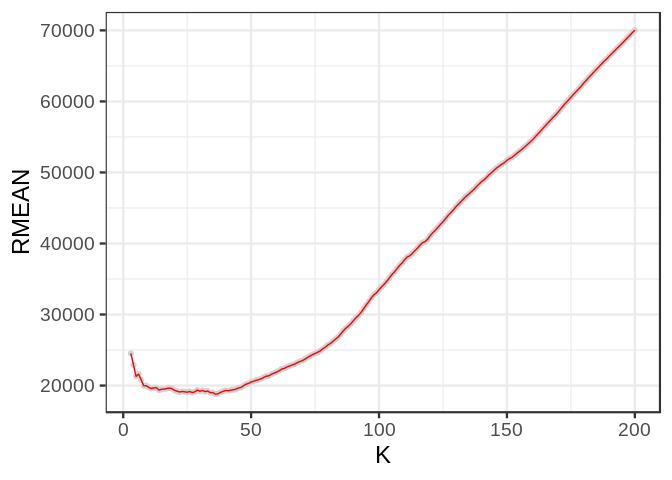
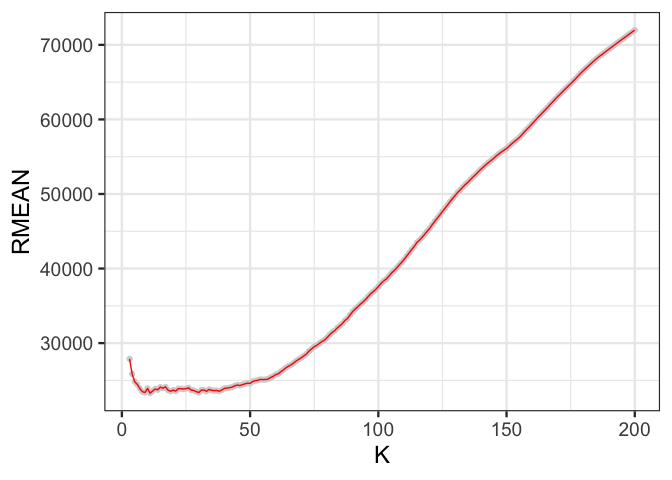
code chunk stuff

Changed region(s): [[0.0625, 0.0312, 1.0, 0.9688], [0.0, 0.5, 0.0312, 0.5312], [0.0, 0.375, 0.0312, 0.4062]]

diff --git a/Exercise_2.md b/Exercise_2.md
@@ -21,53 +21,36 @@ values of K for predicting the price of each.
 
 ![](Exercise_2_files/figure-gfm/sclass_350-1.png)<!-- -->
 
-    ## [1] 11262.72
+    ## [1] 11847.07
 
 ![](Exercise_2_files/figure-gfm/sclass_350-2.png)<!-- -->
 
-    ## [1] 9740.887
+    ## [1] 11063.13
 
 ![](Exercise_2_files/figure-gfm/sclass_350-3.png)<!-- -->
 
-    ## [1] 9569.883
+    ## [1] 10708.52
 
 ![](Exercise_2_files/figure-gfm/sclass_350-4.png)<!-- -->
 
-    ## [1] 9808.211
+    ## [1] 10784.93
 
 ![](Exercise_2_files/figure-gfm/sclass_350-5.png)<!-- -->
 
-    ## [1] 10166.67
+    ## [1] 11158.3
 
 ![](Exercise_2_files/figure-gfm/sclass_350-6.png)<!-- -->
 
-    ## [1] 11344.34
+    ## [1] 12366.65
 
 ![](Exercise_2_files/figure-gfm/sclass_350-7.png)<!-- -->
 
-    ## [1] 17985.58
+    ## [1] 17835.59
 
 Here we plot the average RMSE for each value of K from 3 to 250, and
 find that the optimal value of K is
 
-``` kplot
-kframe <- data.frame("K" = c(), "RMEAN" =c())
-i <- 3
-while (i <= 250) {
-  d = data.frame("K" = i, "RMEAN" = rmse(y_test, knn.reg(train = X_train, test = X_test, y = y_train, k=i)$pred))
-  
-  kframe = rbind(kframe, d)
-  i = i + 1
-
-}
-
-k_vs_rmean = ggplot(data = kframe) + 
-  geom_point(mapping = aes(x = K, y = RMEAN), color='lightgrey') + 
-  theme_bw(base_size=18) + geom_path(aes(x = K, y = RMEAN), color='red')
-k_vs_rmean
-
-print(which kframe == min(kframe$RMEAN), arr.ind=TRUE)
-```
+![](Exercise_2_files/figure-gfm/sclass_350_2-1.png)<!-- -->
 
 # 65 AMG
 
@@ -75,32 +58,34 @@ print(which kframe == min(kframe$RMEAN), arr.ind=TRUE)
 
 ![](Exercise_2_files/figure-gfm/sclass_65-1.png)<!-- -->
 
-    ## [1] 24517.79
+    ## [1] 18121.99
 
 ![](Exercise_2_files/figure-gfm/sclass_65-2.png)<!-- -->
 
-    ## [1] 21290.39
+    ## [1] 17064.17
 
 ![](Exercise_2_files/figure-gfm/sclass_65-3.png)<!-- -->
 
-    ## [1] 19735.25
+    ## [1] 16939.4
 
 ![](Exercise_2_files/figure-gfm/sclass_65-4.png)<!-- -->
 
-    ## [1] 19340.9
+    ## [1] 18274.73
 
 ![](Exercise_2_files/figure-gfm/sclass_65-5.png)<!-- -->
 
-    ## [1] 20513.41
+    ## [1] 26557.62
 
 ![](Exercise_2_files/figure-gfm/sclass_65-6.png)<!-- -->
 
-    ## [1] 33507.61
+    ## [1] 39128.37
 
 ![](Exercise_2_files/figure-gfm/sclass_65-7.png)<!-- -->
 
-    ## [1] 70033.17
+    ## [1] 68063.88
 
-![](Exercise_2_files/figure-gfm/sclass_65-8.png)<!-- -->
+    ## [1] 16939.4
 
-    ## [1] 18796.49
+write stuff here\!
+
+![](Exercise_2_files/figure-gfm/sclass_65_2-1.png)<!-- -->
